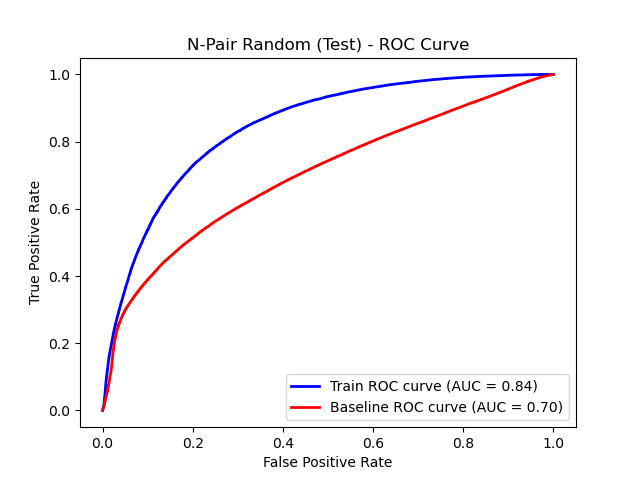
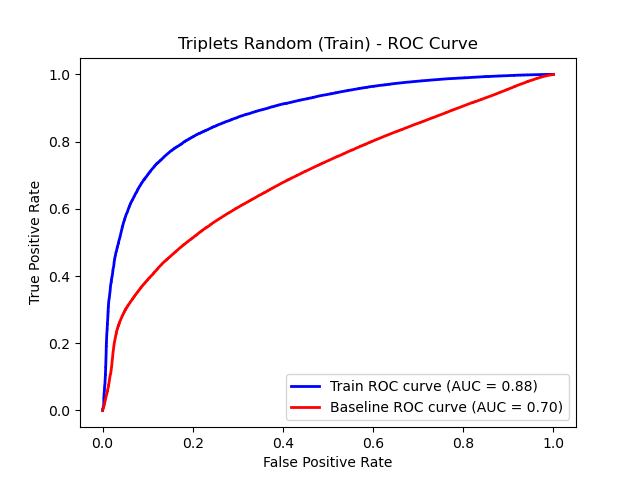
figure push

diff --git a/triplets-random/evals/generate_curves.py b/triplets-random/evals/generate_curves.py
@@ -11,6 +11,14 @@ triplets_rand_train_labels = np.load('/scratch/gpfs/jr8867/main/db/indices/tripl
 triplets_rand_test_scores = np.load('/scratch/gpfs/jr8867/main/db/indices/triplets-random/evals/triplets-random_test_scores.npy')
 triplets_rand_test_labels = np.load('/scratch/gpfs/jr8867/main/db/indices/triplets-random/evals/triplets-random_test_labels.npy')
 
+temp = triplets_rand_train_scores
+triplets_rand_train_scores = triplets_rand_test_scores
+triplets_rand_test_scores = temp
+
+temp = triplets_rand_train_labels
+triplets_rand_train_labels = triplets_rand_test_labels
+triplets_rand_test_labels = temp
+
 print("Loaded scores and labels.")
 
 # ------------------------------------
@@ -49,7 +57,7 @@ plt.plot(train_fpr, train_tpr, color='blue', lw=2, label=f'Train ROC curve (AUC 
 plt.plot(baseline_fpr, baseline_tpr, color='red', lw=2, label=f'Baseline ROC curve (AUC = {baseline_roc_auc:.2f})')
 plt.xlabel('False Positive Rate')
 plt.ylabel('True Positive Rate')
-plt.title('N-Pair Random (Test) - ROC Curve')
+plt.title('Triplets Random (Train) - ROC Curve')
 plt.legend(loc="lower right")
 plt.savefig('roc_curve_train.png')
 plt.close()
@@ -60,7 +68,7 @@ plt.plot(test_fpr, test_tpr, color='green', lw=2, label=f'Test ROC curve (AUC = 
 plt.plot(baseline_fpr, baseline_tpr, color='red', lw=2, label=f'Baseline ROC curve (AUC = {baseline_roc_auc:.2f})')
 plt.xlabel('False Positive Rate')
 plt.ylabel('True Positive Rate')
-plt.title('N-Pair Random (Train) - ROC Curve')
+plt.title('Triplets Random (Test) - ROC Curve')
 plt.legend(loc="lower right")
 plt.savefig('roc_curve_test.png')
 plt.close()
@@ -83,7 +91,7 @@ plt.figure()
 plt.plot(train_recall, train_precision, color='blue', lw=2, label=f'Train PR curve (AUC = {train_pr_auc:.2f})')
 plt.xlabel('Recall')
 plt.ylabel('Precision')
-plt.title('N-Pair Random (Test) - PR Curve')
+plt.title('Triplets Random (Train) - PR Curve')
 plt.legend(loc="upper right")
 plt.savefig('pr_curve_train.png')
 plt.close()
@@ -93,7 +101,7 @@ plt.figure()
 plt.plot(test_recall, test_precision, color='green', lw=2, label=f'Test PR curve (AUC = {test_pr_auc:.2f})')
 plt.xlabel('Recall')
 plt.ylabel('Precision')
-plt.title('N-Pair Random (Train) - PR Curve')
+plt.title('Triplets Random (Test) - PR Curve')
 plt.legend(loc="upper right")
 plt.savefig('pr_curve_test.png')
 plt.close()
@@ -110,7 +118,7 @@ h1 = plt.hist(triplets_rand_train_scores[triplets_rand_train_labels == 1], bins=
 h2 = plt.hist(triplets_rand_train_scores[triplets_rand_train_labels == 0], bins=100, color='orange', alpha=0.5, label='Negative Scores', density=True)
 plt.xlabel('Scores')
 plt.ylabel('Density')
-plt.title('Triplets Random (Test) - Distribution of Scores by Label')
+plt.title('Triplets Random (Train) - Distribution of Scores by Label')
 plt.legend()
 
 # Trace lines through the top of the histogram
@@ -127,7 +135,7 @@ h1 = plt.hist(triplets_rand_test_scores[triplets_rand_test_labels == 1], bins=10
 h2 = plt.hist(triplets_rand_test_scores[triplets_rand_test_labels == 0], bins=100, color='orange', alpha=0.5, label='Negative Scores', density=True)
 plt.xlabel('Scores')
 plt.ylabel('Density')
-plt.title('Triplets Random (Train) - Distribution of Scores by Label')
+plt.title('Triplets Random (Test) - Distribution of Scores by Label')
 plt.legend()
 
 # Trace lines through the top of the histogram

diff --git a/triplets-hard/evals/generate_curves.py b/triplets-hard/evals/generate_curves.py
@@ -11,6 +11,14 @@ triplets_hard_train_labels = np.load('/scratch/gpfs/jr8867/main/db/indices/tripl
 triplets_hard_test_scores = np.load('/scratch/gpfs/jr8867/main/db/indices/triplets-hard/evals/triplets-hard_test_scores.npy')
 triplets_hard_test_labels = np.load('/scratch/gpfs/jr8867/main/db/indices/triplets-hard/evals/triplets-hard_test_labels.npy')
 
+temp = triplets_hard_train_scores
+triplets_hard_train_scores = triplets_hard_test_scores
+triplets_hard_test_scores = temp
+
+temp = triplets_hard_train_labels
+triplets_hard_train_labels = triplets_hard_test_labels
+triplets_hard_test_labels = temp
+
 print("Loaded scores and labels.")
 
 # ------------------------------------
@@ -49,7 +57,7 @@ plt.plot(train_fpr, train_tpr, color='blue', lw=2, label=f'Train ROC curve (AUC 
 plt.plot(baseline_fpr, baseline_tpr, color='red', lw=2, label=f'Baseline ROC curve (AUC = {baseline_roc_auc:.2f})')
 plt.xlabel('False Positive Rate')
 plt.ylabel('True Positive Rate')
-plt.title('Triplets Hard (Test) - ROC Curve')
+plt.title('Triplets Hard (Train) - ROC Curve')
 plt.legend(loc="lower right")
 plt.savefig('roc_curve_train.png')
 plt.close()
@@ -60,7 +68,7 @@ plt.plot(test_fpr, test_tpr, color='green', lw=2, label=f'Test ROC curve (AUC = 
 plt.plot(baseline_fpr, baseline_tpr, color='red', lw=2, label=f'Baseline ROC curve (AUC = {baseline_roc_auc:.2f})')
 plt.xlabel('False Positive Rate')
 plt.ylabel('True Positive Rate')
-plt.title('Triplets Hard (Train) - ROC Curve')
+plt.title('Triplets Hard (Test) - ROC Curve')
 plt.legend(loc="lower right")
 plt.savefig('roc_curve_test.png')
 plt.close()
@@ -83,7 +91,7 @@ plt.figure()
 plt.plot(train_recall, train_precision, color='blue', lw=2, label=f'Train PR curve (AUC = {train_pr_auc:.2f})')
 plt.xlabel('Recall')
 plt.ylabel('Precision')
-plt.title('Triplets Hard (Test) - PR Curve')
+plt.title('Triplets Hard (Train) - PR Curve')
 plt.legend(loc="upper right")
 plt.savefig('pr_curve_train.png')
 plt.close()
@@ -93,7 +101,7 @@ plt.figure()
 plt.plot(test_recall, test_precision, color='green', lw=2, label=f'Test PR curve (AUC = {test_pr_auc:.2f})')
 plt.xlabel('Recall')
 plt.ylabel('Precision')
-plt.title('Triplets Hard (Train) - PR Curve')
+plt.title('Triplets Hard (Test) - PR Curve')
 plt.legend(loc="upper right")
 plt.savefig('pr_curve_test.png')
 plt.close()
@@ -110,7 +118,7 @@ h1 = plt.hist(triplets_hard_train_scores[triplets_hard_train_labels == 1], bins=
 h2 = plt.hist(triplets_hard_train_scores[triplets_hard_train_labels == 0], bins=100, color='orange', alpha=0.5, label='Negative Scores', density=True)
 plt.xlabel('Scores')
 plt.ylabel('Density')
-plt.title('Triplets Hard (Test) - Distribution of Scores by Label')
+plt.title('Triplets Hard (Train) - Distribution of Scores by Label')
 plt.legend()
 
 # Trace lines through the top of the histogram
@@ -127,7 +135,7 @@ h1 = plt.hist(triplets_hard_test_scores[triplets_hard_test_labels == 1], bins=10
 h2 = plt.hist(triplets_hard_test_scores[triplets_hard_test_labels == 0], bins=100, color='orange', alpha=0.5, label='Negative Scores', density=True)
 plt.xlabel('Scores')
 plt.ylabel('Density')
-plt.title('Triplets Hard (Train) - Distribution of Scores by Label')
+plt.title('Triplets Hard (Test) - Distribution of Scores by Label')
 plt.legend()
 
 # Trace lines through the top of the histogram

diff --git a/npair-random/evals/generate_curves.py b/npair-random/evals/generate_curves.py
@@ -11,6 +11,14 @@ npair_train_labels = np.load('/scratch/gpfs/jr8867/main/db/indices/npair-random/
 npair_test_scores = np.load('/scratch/gpfs/jr8867/main/db/indices/npair-random/evals/npair-random_test_scores.npy')
 npair_test_labels = np.load('/scratch/gpfs/jr8867/main/db/indices/npair-random/evals/npair-random_test_labels.npy')
 
+temp = npair_train_scores
+npair_train_scores = npair_test_scores
+npair_test_scores = temp
+
+temp = npair_train_labels
+npair_train_labels = npair_test_labels
+npair_test_labels = temp
+
 print("Loaded scores and labels.")
 
 # ------------------------------------
@@ -49,7 +57,7 @@ plt.plot(train_fpr, train_tpr, color='blue', lw=2, label=f'Train ROC curve (AUC 
 plt.plot(baseline_fpr, baseline_tpr, color='red', lw=2, label=f'Baseline ROC curve (AUC = {baseline_roc_auc:.2f})')
 plt.xlabel('False Positive Rate')
 plt.ylabel('True Positive Rate')
-plt.title('N-Pair Random (Test) - ROC Curve')
+plt.title('N-Pair Random (Train) - ROC Curve')
 plt.legend(loc="lower right")
 plt.savefig('roc_curve_train.png')
 plt.close()
@@ -60,7 +68,7 @@ plt.plot(test_fpr, test_tpr, color='green', lw=2, label=f'Test ROC curve (AUC = 
 plt.plot(baseline_fpr, baseline_tpr, color='red', lw=2, label=f'Baseline ROC curve (AUC = {baseline_roc_auc:.2f})')
 plt.xlabel('False Positive Rate')
 plt.ylabel('True Positive Rate')
-plt.title('N-Pair Random (Train) - ROC Curve')
+plt.title('N-Pair Random (Test) - ROC Curve')
 plt.legend(loc="lower right")
 plt.savefig('roc_curve_test.png')
 plt.close()
@@ -83,7 +91,7 @@ plt.figure()
 plt.plot(train_recall, train_precision, color='blue', lw=2, label=f'Train PR curve (AUC = {train_pr_auc:.2f})')
 plt.xlabel('Recall')
 plt.ylabel('Precision')
-plt.title('N-Pair Random (Test) - PR Curve')
+plt.title('N-Pair Random (Train) - PR Curve')
 plt.legend(loc="upper right")
 plt.savefig('pr_curve_train.png')
 plt.close()
@@ -93,7 +101,7 @@ plt.figure()
 plt.plot(test_recall, test_precision, color='green', lw=2, label=f'Test PR curve (AUC = {test_pr_auc:.2f})')
 plt.xlabel('Recall')
 plt.ylabel('Precision')
-plt.title('N-Pair Random (Train) - PR Curve')
+plt.title('N-Pair Random (Test) - PR Curve')
 plt.legend(loc="upper right")
 plt.savefig('pr_curve_test.png')
 plt.close()
@@ -110,7 +118,7 @@ h1 = plt.hist(npair_train_scores[npair_train_labels == 1], bins=100, color='blue
 h2 = plt.hist(npair_train_scores[npair_train_labels == 0], bins=100, color='orange', alpha=0.5, label='Negative Scores', density=True)
 plt.xlabel('Scores')
 plt.ylabel('Density')
-plt.title('N-Pair Random (Test) - Distribution of Scores by Label')
+plt.title('N-Pair Random (Train) - Distribution of Scores by Label')
 plt.legend()
 
 # Trace lines through the top of the histogram
@@ -127,7 +135,7 @@ h1 = plt.hist(npair_test_scores[npair_test_labels == 1], bins=100, color='blue',
 h2 = plt.hist(npair_test_scores[npair_test_labels == 0], bins=100, color='orange', alpha=0.5, label='Negative Scores', density=True)
 plt.xlabel('Scores')
 plt.ylabel('Density')
-plt.title('N-Pair Random (Train) - Distribution of Scores by Label')
+plt.title('N-Pair Random (Test) - Distribution of Scores by Label')
 plt.legend()
 
 # Trace lines through the top of the histogram
